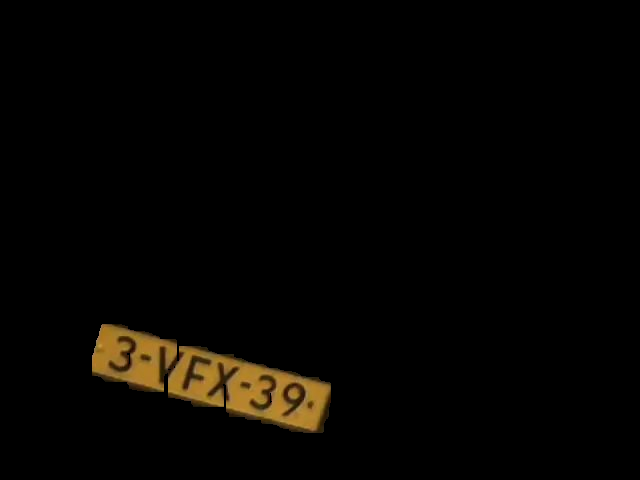
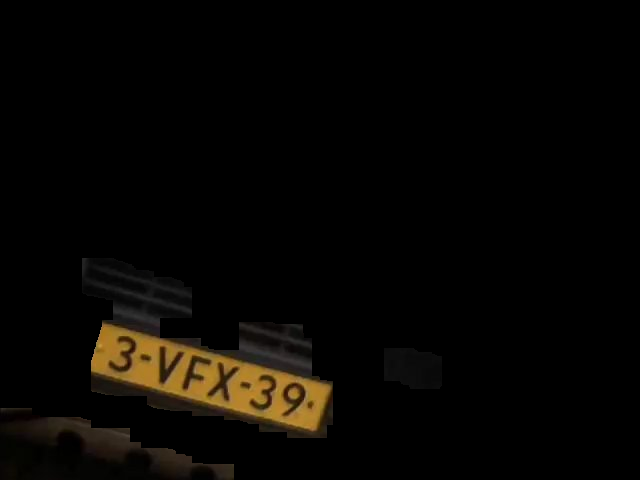
Added more images for testing. Improvement in the thresholding

diff --git a/createScatter2.m b/createScatter2.m
@@ -1,0 +1,162 @@
+function [  ] = createScatter2( listFOR, listBACK )
+%CREATESCATTER Summary of this function goes here
+%   Detailed explanation goes here
+close all;
+size1 = size(listFOR(:));
+length = size1(1);
+redFOR = cell(length);
+greenFOR = cell(length);
+blueFOR = cell(length);
+hueFOR = cell(length);
+satFOR = cell(length);
+intFOR = cell(length);
+
+redBACK = cell(length);
+greenBACK = cell(length);
+blueBACK = cell(length);
+hueBACK = cell(length);
+satBACK = cell(length);
+intBACK = cell(length);
+
+for i = 1:length
+    redFOR{i} = listFOR{i}(:,:,1);
+    greenFOR{i} = listFOR{i}(:,:,2);
+    blueFOR{i} = listFOR{i}(:,:,3);
+    hsi_image = rgb2hsv(listFOR{i});
+    hueFOR{i} = hsi_image(:,:,1);
+    satFOR{i}= hsi_image(:,:,2);
+    intFOR{i}= hsi_image(:,:,3);
+    
+    redBACK{i} = listBACK{i}(:,:,1);
+    greenBACK{i} = listBACK{i}(:,:,2);
+    blueBACK{i} = listBACK{i}(:,:,3);
+    hsi_image = rgb2hsv(listBACK{i});
+    hueBACK{i} = hsi_image(:,:,1);
+    satBACK{i}= hsi_image(:,:,2);
+    intBACK{i}= hsi_image(:,:,3);
+end
+
+  figure(1)
+  hold on
+
+for i = 1:length
+%     R = redBACK{i};
+%     G = greenBACK{i};
+%     scatter(R(:),G(:),'b', '.');
+    
+     R = redFOR{i};
+     G = greenFOR{i};
+     scatter(R(:),G(:), 'r', '.');
+    
+    
+end
+xlabel('red');
+ylabel('green');
+title('red vs green');
+x = 0:255;
+y = 0.48 * x -4.1;
+scatter(x,y,'.')
+y = 1.08 * x + 5.6;
+scatter(x,y,'.')
+
+    figure(2)
+    hold on
+
+for i = 1:length
+%     R = redBACK{i};
+%     B = blueBACK{i};
+%     scatter(R(:),B(:), 'b', '.');
+    
+    R = redFOR{i};
+    B = blueFOR{i};
+    scatter(R(:),B(:), 'r', '.');
+    
+   
+end
+xlabel('red');
+ylabel('blue');
+title('red vs blue');
+
+x = 0:255;
+y = 0.68 * x + 4.18;
+scatter(x,y,'.')
+
+  figure(3)
+  hold on
+
+for i = 1:length
+%     B = blueBACK{i};
+%     G = greenBACK{i};
+%     scatter(B(:),G(:), 'b', '.');
+    
+    B = blueFOR{i};
+    G = greenFOR{i};
+    scatter(B(:),G(:), 'r', '.');
+    
+    
+end
+xlabel('blue');
+ylabel('green');
+title('blue vs green');
+
+%figure(1);
+ figure(4)
+  hold on
+
+for i = 1:length
+%     H = hueBACK{i};
+%     S = satBACK{i};
+%     scatter(H(:),S(:), 'b', '.');
+    
+    H = hueFOR{i};
+    S = satFOR{i};
+    scatter(H(:),S(:), 'r', '.');
+    
+    
+end
+xlabel('hue');
+ylabel('saturation');
+title('hue vs saturation');
+
+    figure(2)
+    hold on
+
+figure(5)
+  hold on
+
+for i = 1:length
+%     H = hueBACK{i};
+%     I = intBACK{i};
+%     scatter(H(:),I(:), 'b', '.');
+    
+    H = hueFOR{i};
+    I = intFOR{i};
+     scatter(H(:),I(:), 'r', '.');
+    
+    
+end
+xlabel('hue');
+ylabel('intensity');
+title('hue vs intensity');
+
+figure(6)
+  hold on
+
+for i = 1:length 
+    
+%     S = satBACK{i};
+%     I = intBACK{i};
+%     scatter(S(:),I(:), 'b', '.');
+    
+    S = satFOR{i};
+    I = intFOR{i};
+    scatter(S(:),I(:), 'r', '.');
+    
+   
+end
+xlabel('saturation');
+ylabel('intensity');
+title('saturation vs intensity');
+
+end
+

diff --git a/readSampleFiles.m b/readSampleFiles.m
@@ -1,6 +1,29 @@
-filelist = dir('resources/KentekenSamples/*.png');
-list = cell(1,length(filelist));
-for K = 1:length(filelist)
-  list{K} = imread(['resources/KentekenSamples/', filelist(K).name]);
+method = 2;
+
+if (method == 1)
+    filelist = dir('resources/KentekenSamples/*.png');
+    list = cell(1,length(filelist));
+    for K = 1:length(filelist)
+        list{K} = imread(['resources/KentekenSamples/', filelist(K).name]);
+    end
+    createScatter(list)
 end
-createScatter(list)
+
+if (method == 2)
+    
+    filelistFOR = dir('resources/TrainingsIMGs/Foreground2/*.png');
+    listFOR = cell(1,length(filelistFOR));
+     for K = 1:length(filelistFOR)
+        listFOR{K} = imread(['resources/TrainingsIMGs/Foreground2/', filelistFOR(K).name]);
+     end
+     
+    filelistBACK = dir('resources/TrainingsIMGs/Background/*.png');
+    listBACK = cell(1,length(filelistBACK));
+     for K = 1:length(filelistBACK)
+        listBACK{K} = imread(['resources/TrainingsIMGs/Background/', filelistBACK(K).name]);
+     end
+     
+    createScatter2(listFOR, listBACK);
+     
+     
+end

diff --git a/thresholdFilter.m b/thresholdFilter.m
@@ -2,16 +2,21 @@ function [ data2 ] = thresholdFilter( frame )
 %THRESHOLDFILTER Summary of this function goes here
 %   Detailed explanation goes here
 hsidata = rgb2hsv(frame);
-mask1 = frame(:,:,2) <= 0.9 .* frame(:,:,1) + 22;
-mask2 = frame(:,:,2) >= 0.9 .* frame(:,:,1) - 70;
-mask3 = frame(:,:,3) <= 0.9 .* frame(:,:,2) -10;
-mask4 = hsidata(:,:,1) < 0.22;
+mask1 = frame(:,:,2) <= 1.08 .* frame(:,:,1) + 5.6;
+mask2 = frame(:,:,2) >= 0.48 .* frame(:,:,1) - 4.1;
+mask3 = frame(:,:,3) <= 0.68 .* frame(:,:,2) + 4.18;
+mask4 = hsidata(:,:,1) < 0.25;
 mask =  mask1 .* mask2 .* mask3 .* mask4;
-SE = strel('square',20);
+SE = strel('square',5);
+SE2 = strel('square',20);
 mask = imopen(mask,SE);
+mask = imclose(mask,SE2);
+SE2= strel('square',30);
+mask = imopen(mask,SE2);
 data2(:,:,1) = uint8(mask) .* frame(:,:,1);
 data2(:,:,2) = uint8(mask) .* frame(:,:,2);
 data2(:,:,3) = uint8(mask) .* frame(:,:,3);
 
 end
 
+ 

diff --git a/createScatter.m b/createScatter.m
@@ -26,16 +26,11 @@ end
 for i = 1:length
     R = red{i};
     G = green{i};
-    scatter(R(:),G(:),'filled');
+    scatter(R(:),G(:), 'filled');
 end
 xlabel('red');
 ylabel('green');
 title('red vs green');
-x = 1:255;
-y = 0.9*x + 22;
-y2 = 0.9*x -70;
-%scatter(x,y,'.');
-%scatter(x,y2,'.');
 
 
     figure(2)
